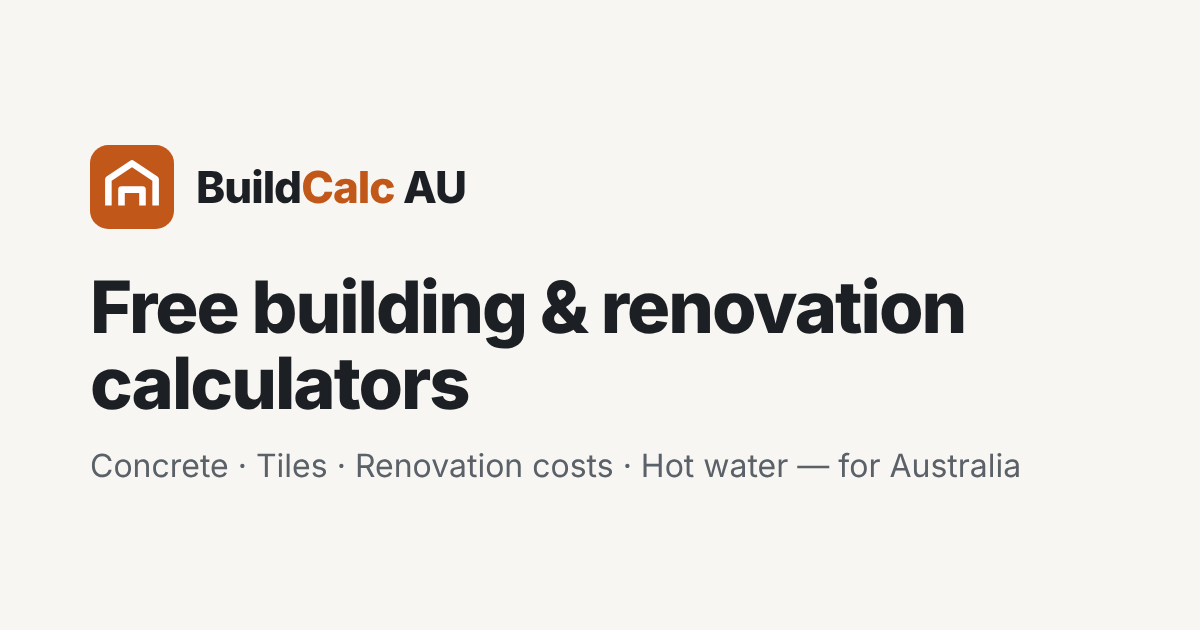
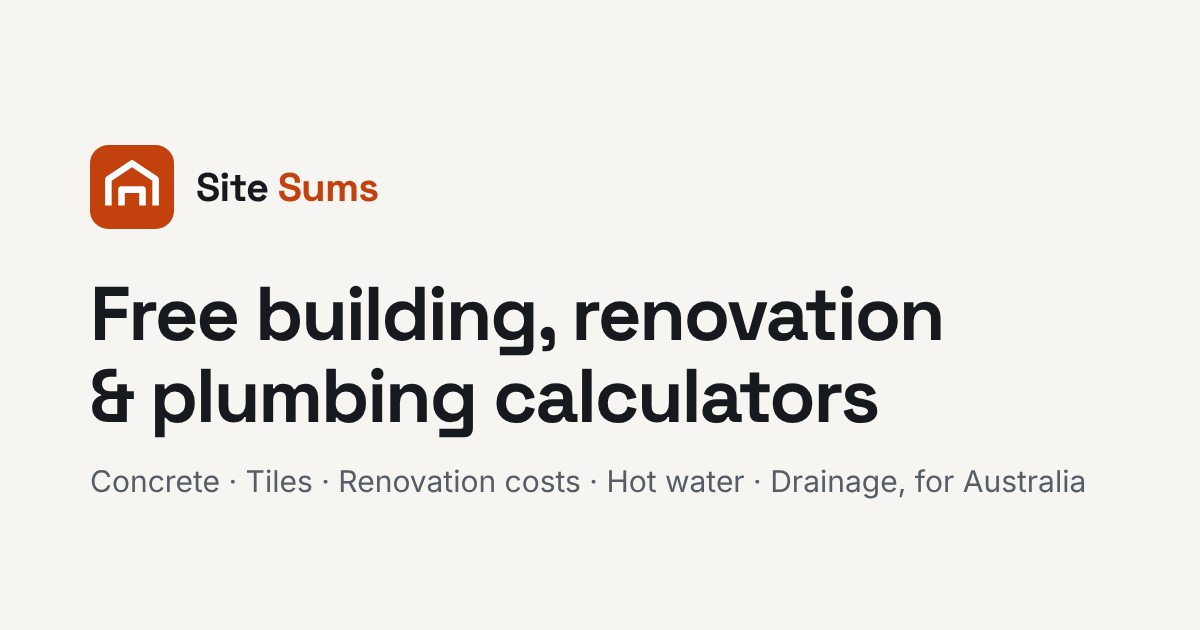
Rename site to Site Sums (sitesums.com)
Claude-Session: https://claude.ai/code/session_01Lk4mhGFSwM5YKZ5PgkZtmF

diff --git a/src/site.config.ts b/src/site.config.ts
@@ -1,6 +1,6 @@
 // Configuración central del sitio. Edita aquí y se aplica en todas las páginas.
 export const SITE = {
-  name: 'BuildCalc AU', // nombre provisional, cámbialo cuando elijas marca
+  name: 'Site Sums',
   tagline: 'Free building & renovation calculators for Australians',
   description:
     'Free calculators for Australian building, renovation and plumbing jobs: concrete, tiles, renovation costs, hot water systems and more.',

diff --git a/CLAUDE.md b/CLAUDE.md
@@ -1,4 +1,4 @@
-# CLAUDE.md — ConstructionTools (BuildCalc AU, provisional name)
+# CLAUDE.md — ConstructionTools (Site Sums, sitesums.com)
 
 Read this before doing any work in this repo. It holds the project goals and the
 decisions already made. The owner (Oswaldo) speaks Spanish: talk to him in Spanish,
@@ -131,7 +131,7 @@ Ezoic is ruled out (minimum raised to 250k monthly users in Feb 2026).
 ## Design rules ("Site plan")
 
 The approved design lives in the Claude Design canvas "BuildCalc AU — Diseño del
-sitio". Colours, type and components are tokens in `src/styles/global.css`; reuse
+sitio" (the site was later named Site Sums). Colours, type and components are tokens in `src/styles/global.css`; reuse
 them, never hard-code new colours.
 - Warm off-white ground (`--bg`), white cards, carbon ink (`--ink`).
 - One accent: safety orange `--accent` for buttons, links, selection and the CTA.

diff --git a/docs/ROADMAP.md b/docs/ROADMAP.md
@@ -1,4 +1,4 @@
-# Roadmap — BuildCalc AU
+# Roadmap — Site Sums
 
 Plan por fases. Cada fase tiene una meta, una lista de tareas y prompts listos para
 pegar en Claude Code. Marca con `[x]` lo que vayas terminando.
@@ -28,7 +28,8 @@ Publicar de forma constante pesa más que publicar mucho de golpe.
 **Meta:** sitio publicado en tu dominio y conectado a Google.
 
 Lo haces tú (no Claude Code):
-- [ ] Elegir nombre y comprar dominio `.com.au` o `.com`
+- [x] Elegir nombre: **Site Sums** (19 nov)
+- [ ] Comprar el dominio `sitesums.com` (si no está libre, avisar para cambiar `astro.config.mjs` y `robots.txt`)
       (`.com.au` pide ABN; si no tienes, usa `.com`)
 - [ ] Cloudflare Pages: conectar el repo de GitHub
       (preset Astro, build `npm run build`, output `dist`) y luego el dominio

diff --git a/README.md b/README.md
@@ -1,4 +1,4 @@
-# BuildCalc AU (nombre provisional)
+# Site Sums (sitesums.com)
 
 Sitio de calculadoras para construcción y renovación en Australia. Astro, HTML estático, Cloudflare Pages.
 
